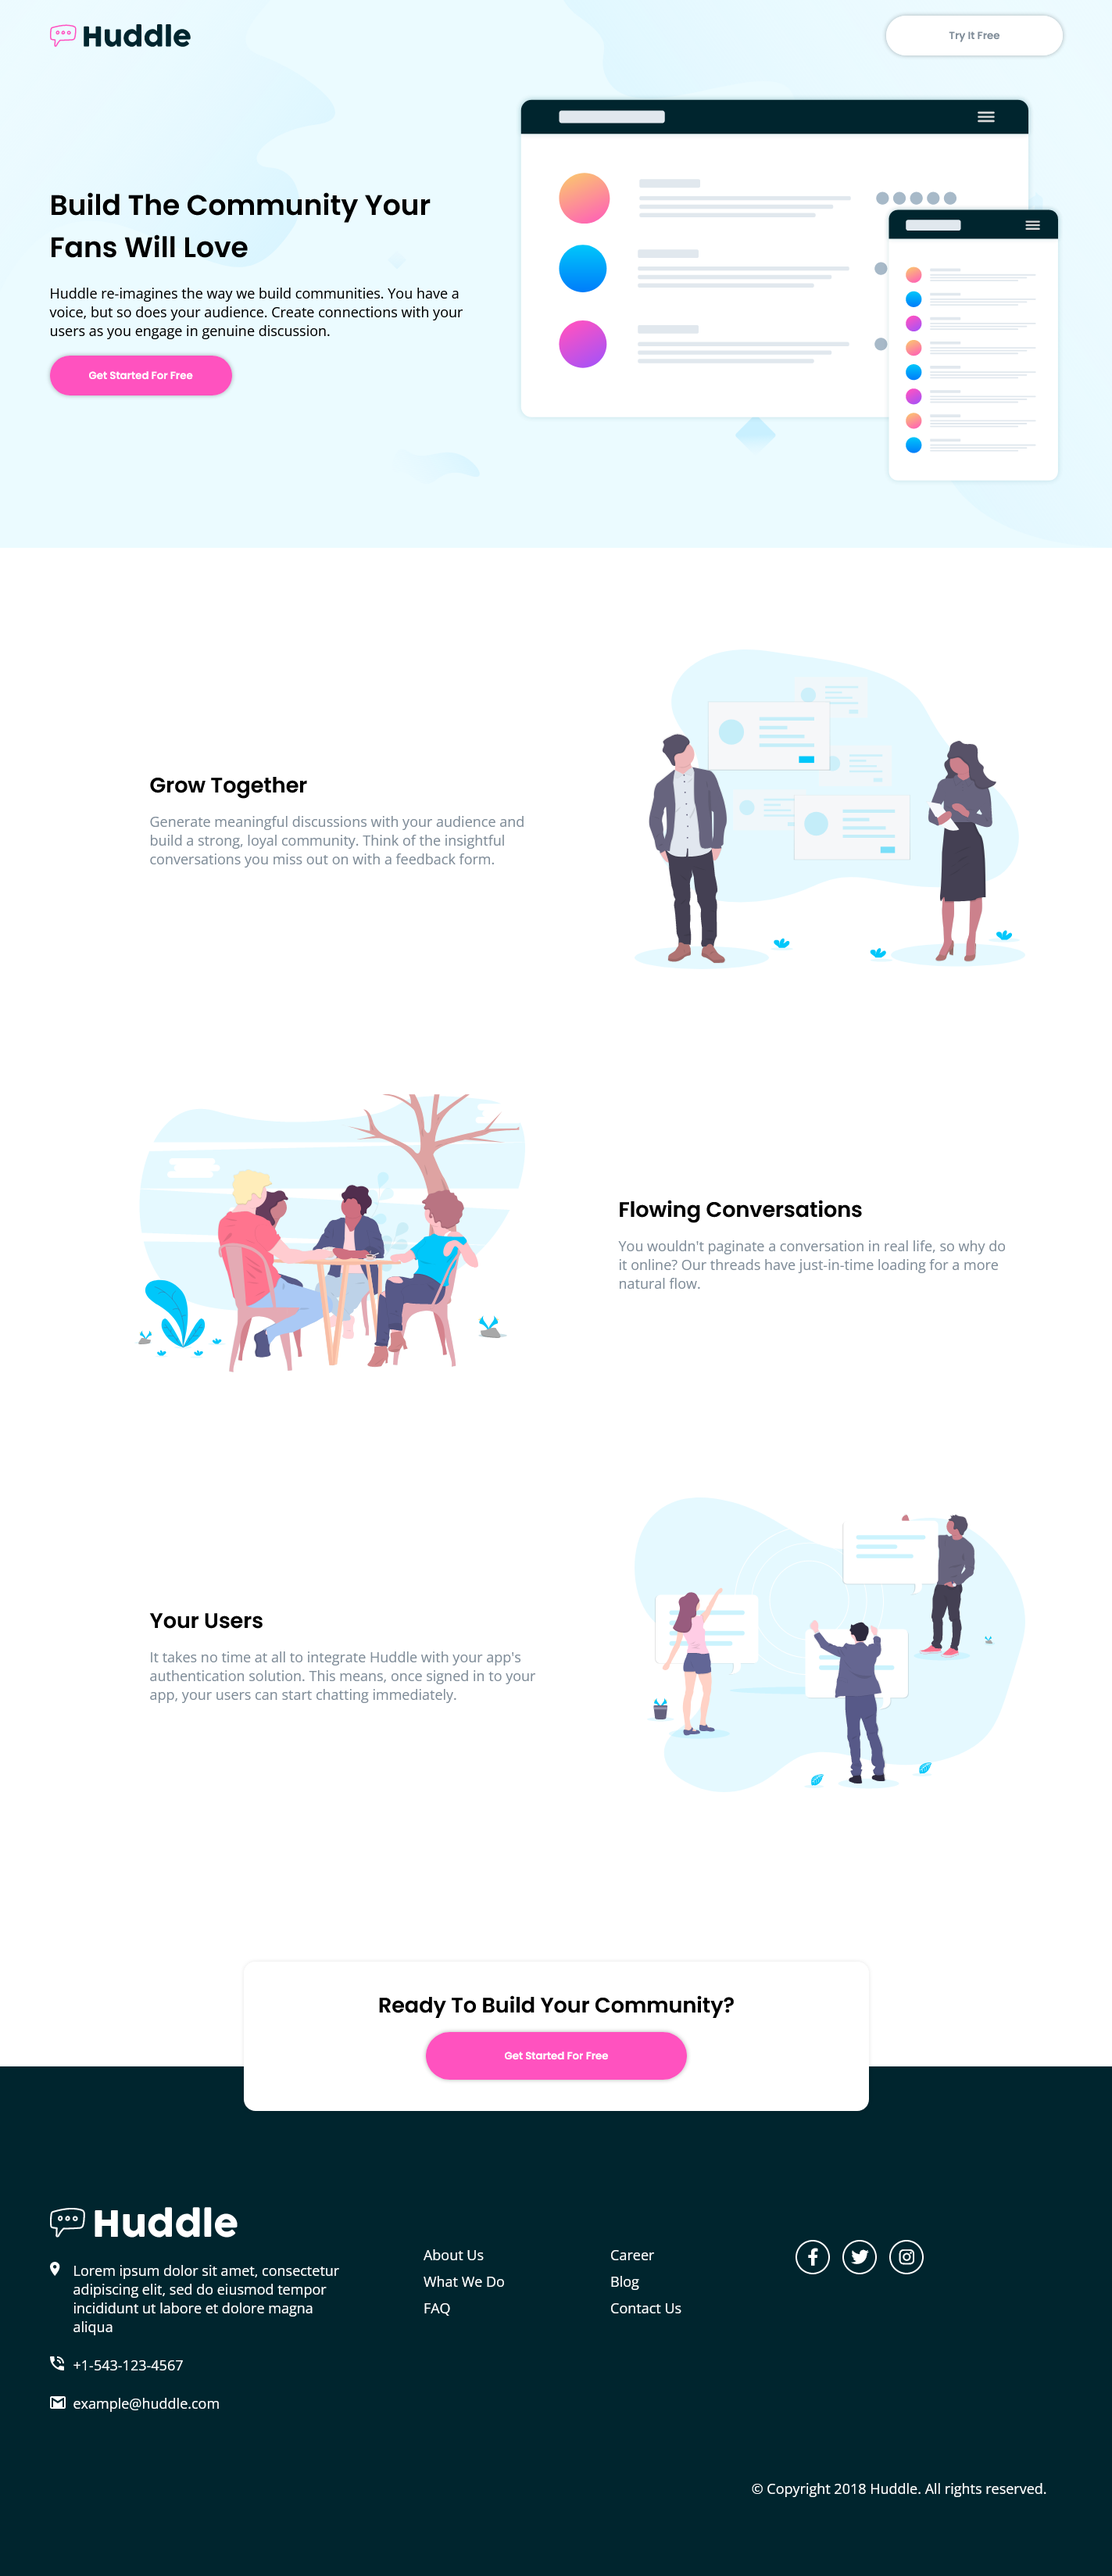
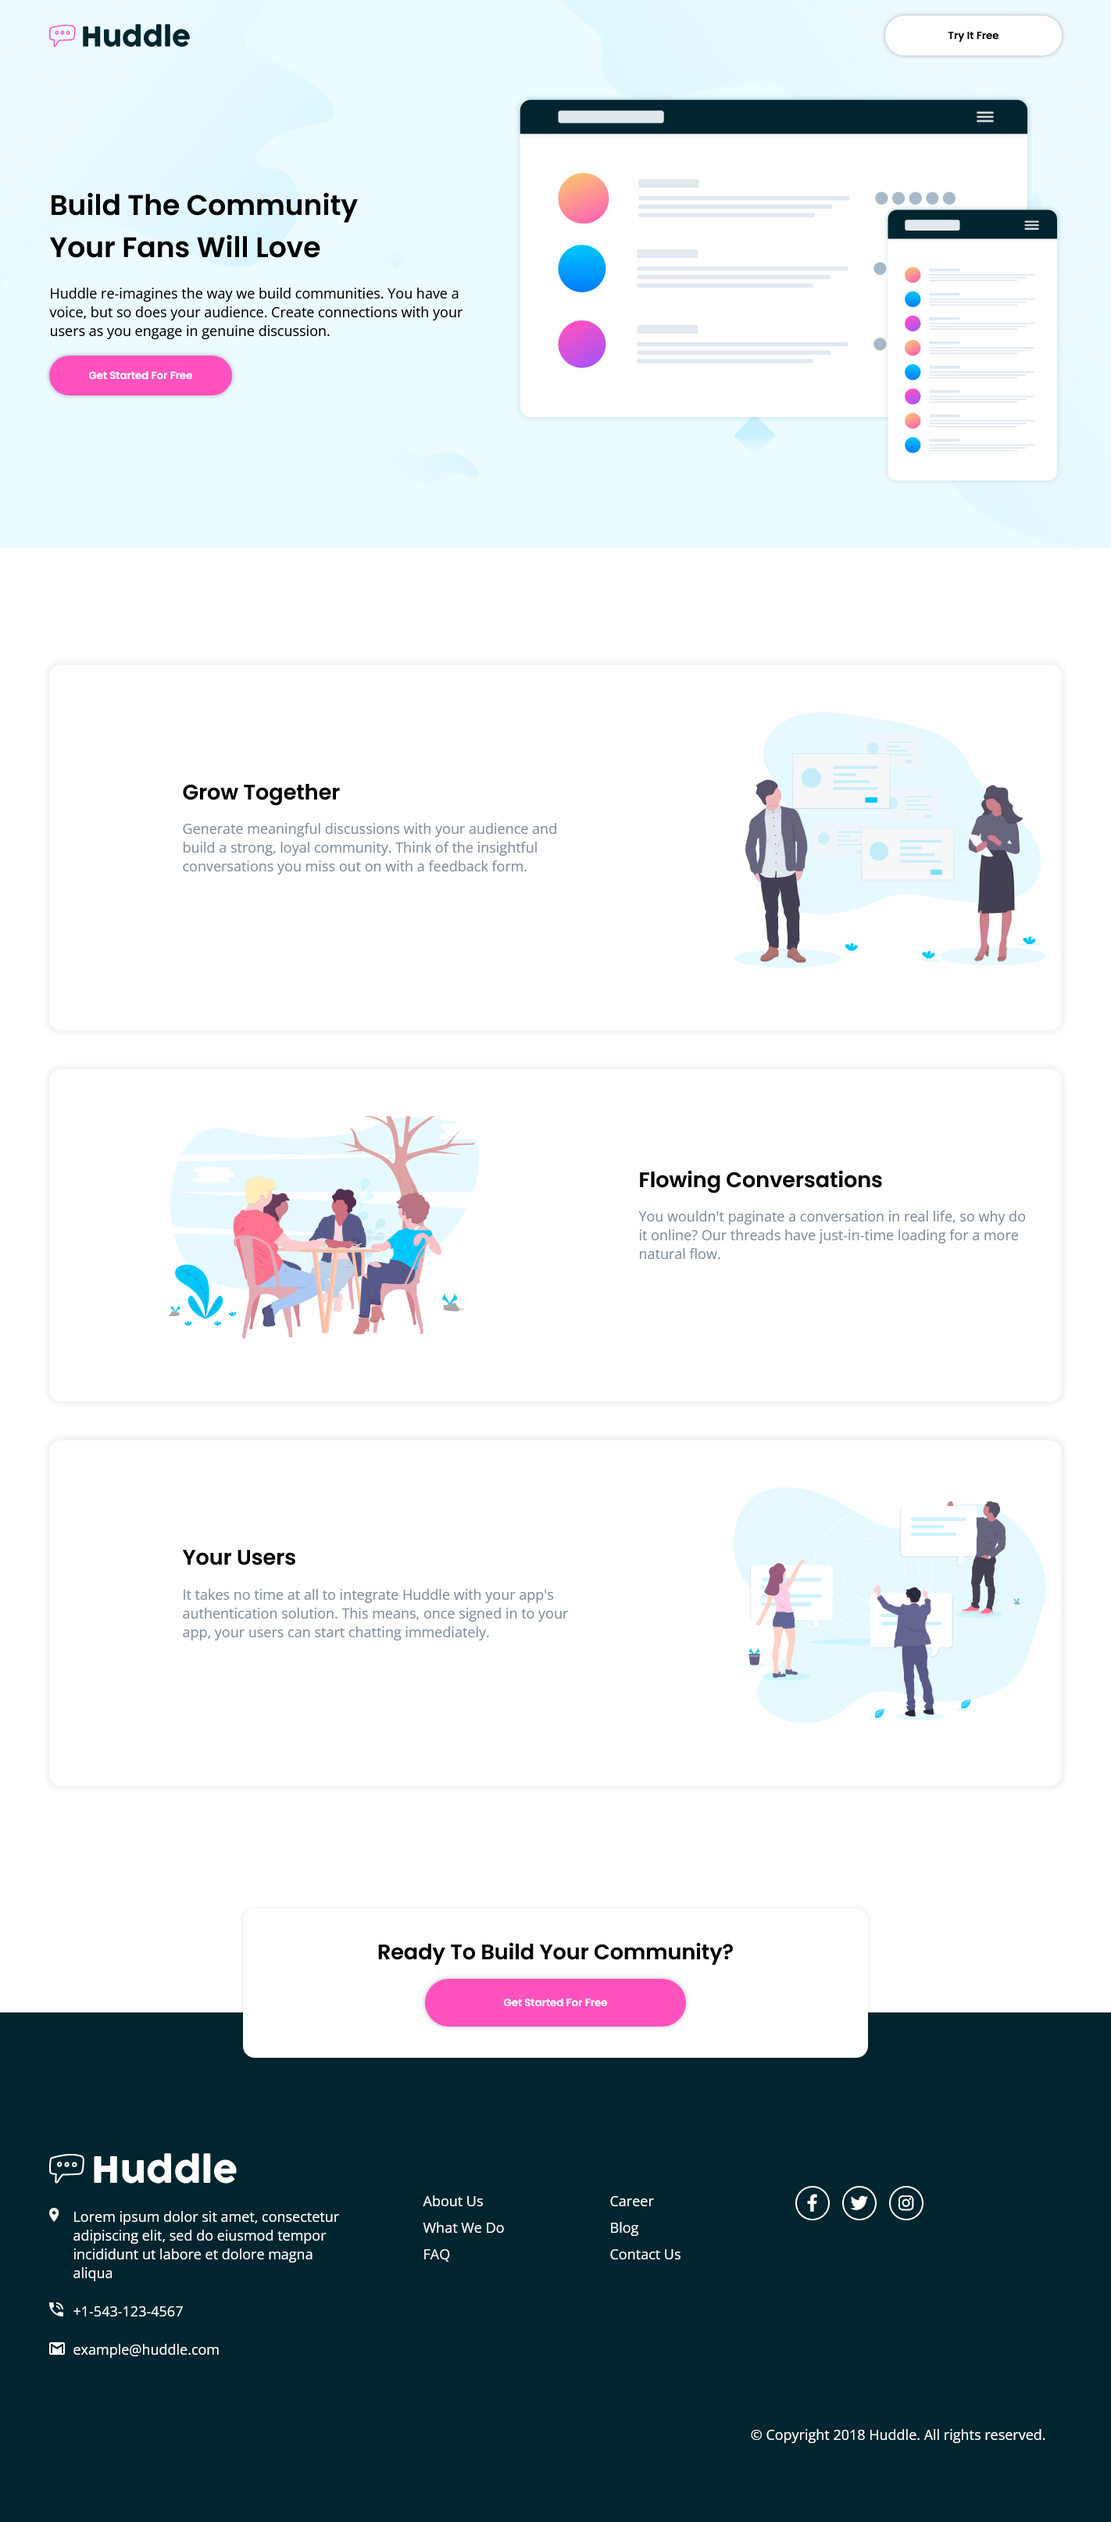
added shadowbox to features, tweaked padding margin of features

diff --git a/huddle-landing-page/style.css b/huddle-landing-page/style.css
@@ -118,10 +118,14 @@ footer {
 
 main .feature {
   margin: 130px 0;
+  border-radius: 15px;
+  box-shadow: 0px 0px 5px 5px rgba(0, 0, 0, 0.05);
+  padding-bottom: 50px;
 }
 
 main .feature img {
-  margin: 0 0 30px;
+  margin: 60px 0 30px;
+  max-width: 400px;
 }
 
 main .feature p {
@@ -202,7 +206,7 @@ footer .container > p {
   }
 
   h1 {
-    padding-right: 60px;
+    padding-right: 70px;
   }
 
   .light-bg {
@@ -236,10 +240,21 @@ footer .container > p {
     justify-self: flex-end;
   }
 
+  main {
+    margin-top: 150px;
+    margin-bottom: 100px;
+  }
+
+  main .feature {
+    margin: 50px 0;    
+  }
+
   .feature.flex {
     display: flex;
     align-items: center;
-    gap: 100px;
+    gap: 184px;
+    padding: 0 20px 50px 150px;
+    padding-left: 150px;
   }
 
   .feature.flex > * {
@@ -255,11 +270,6 @@ footer .container > p {
   .showcase,
   footer .container > p {
     text-align: left;
-  }
-
-  main .container {
-    padding-left: 60px;
-    max-width: 1200px;
   }
 
   .social {
@@ -305,7 +315,7 @@ footer .container > p {
 
 @media screen and (min-width: 1500px) {
   .container {
-    max-width: 1200px;
+    max-width: 1300px;
   }
 }
 
